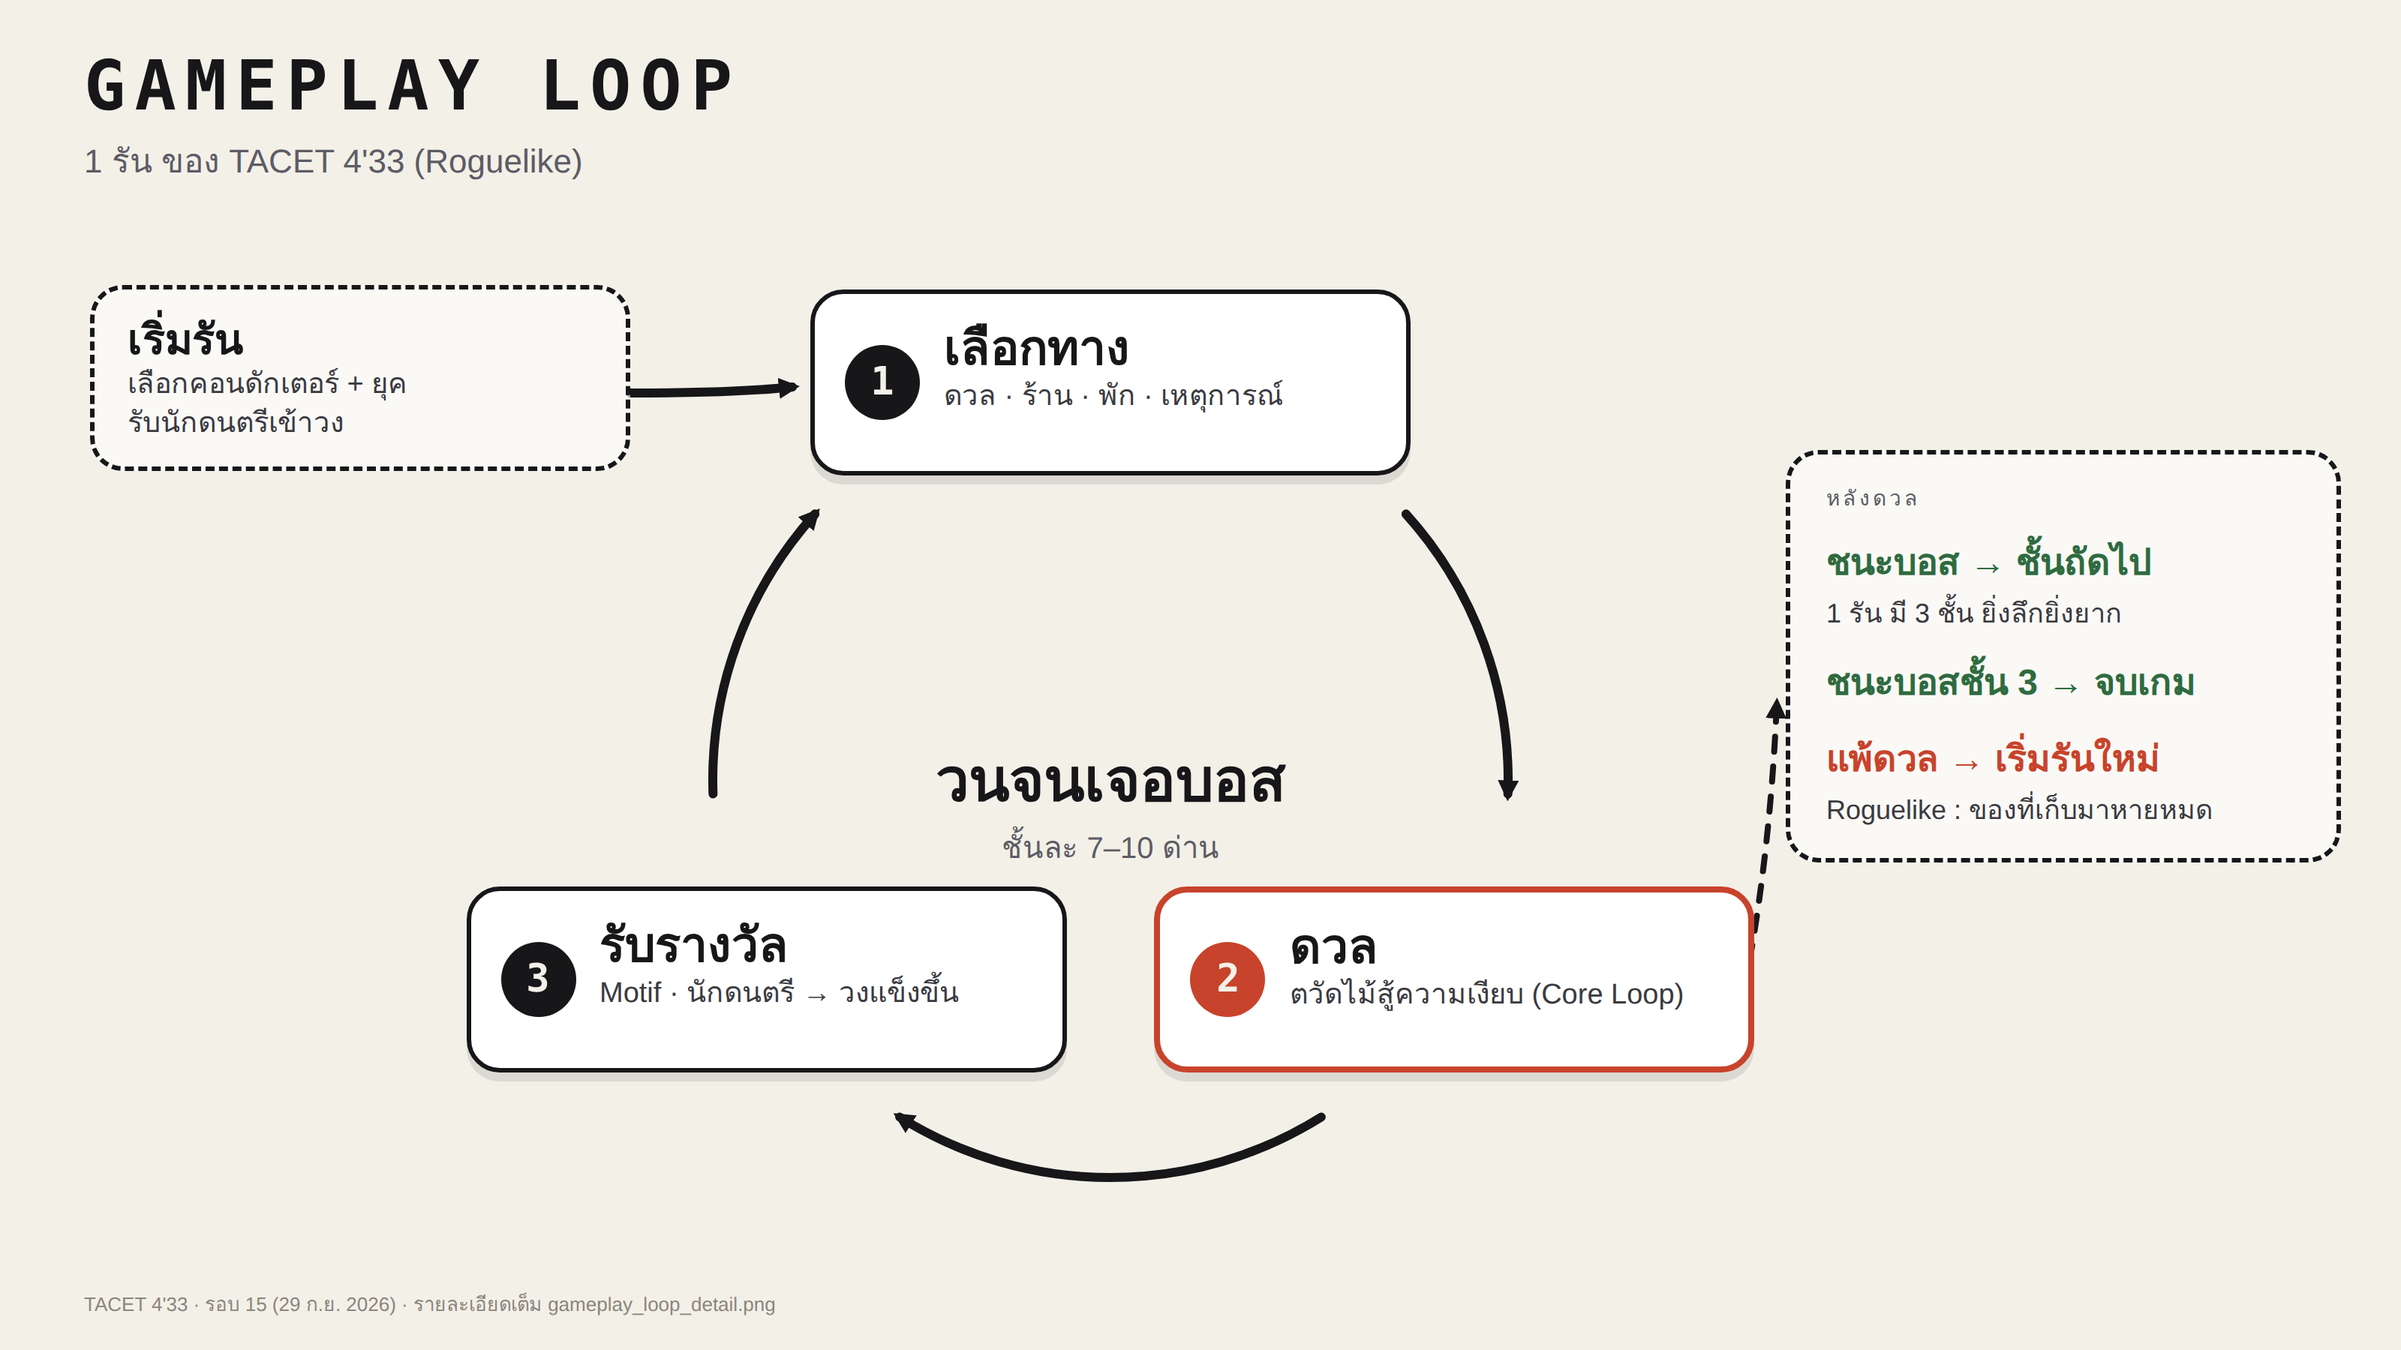
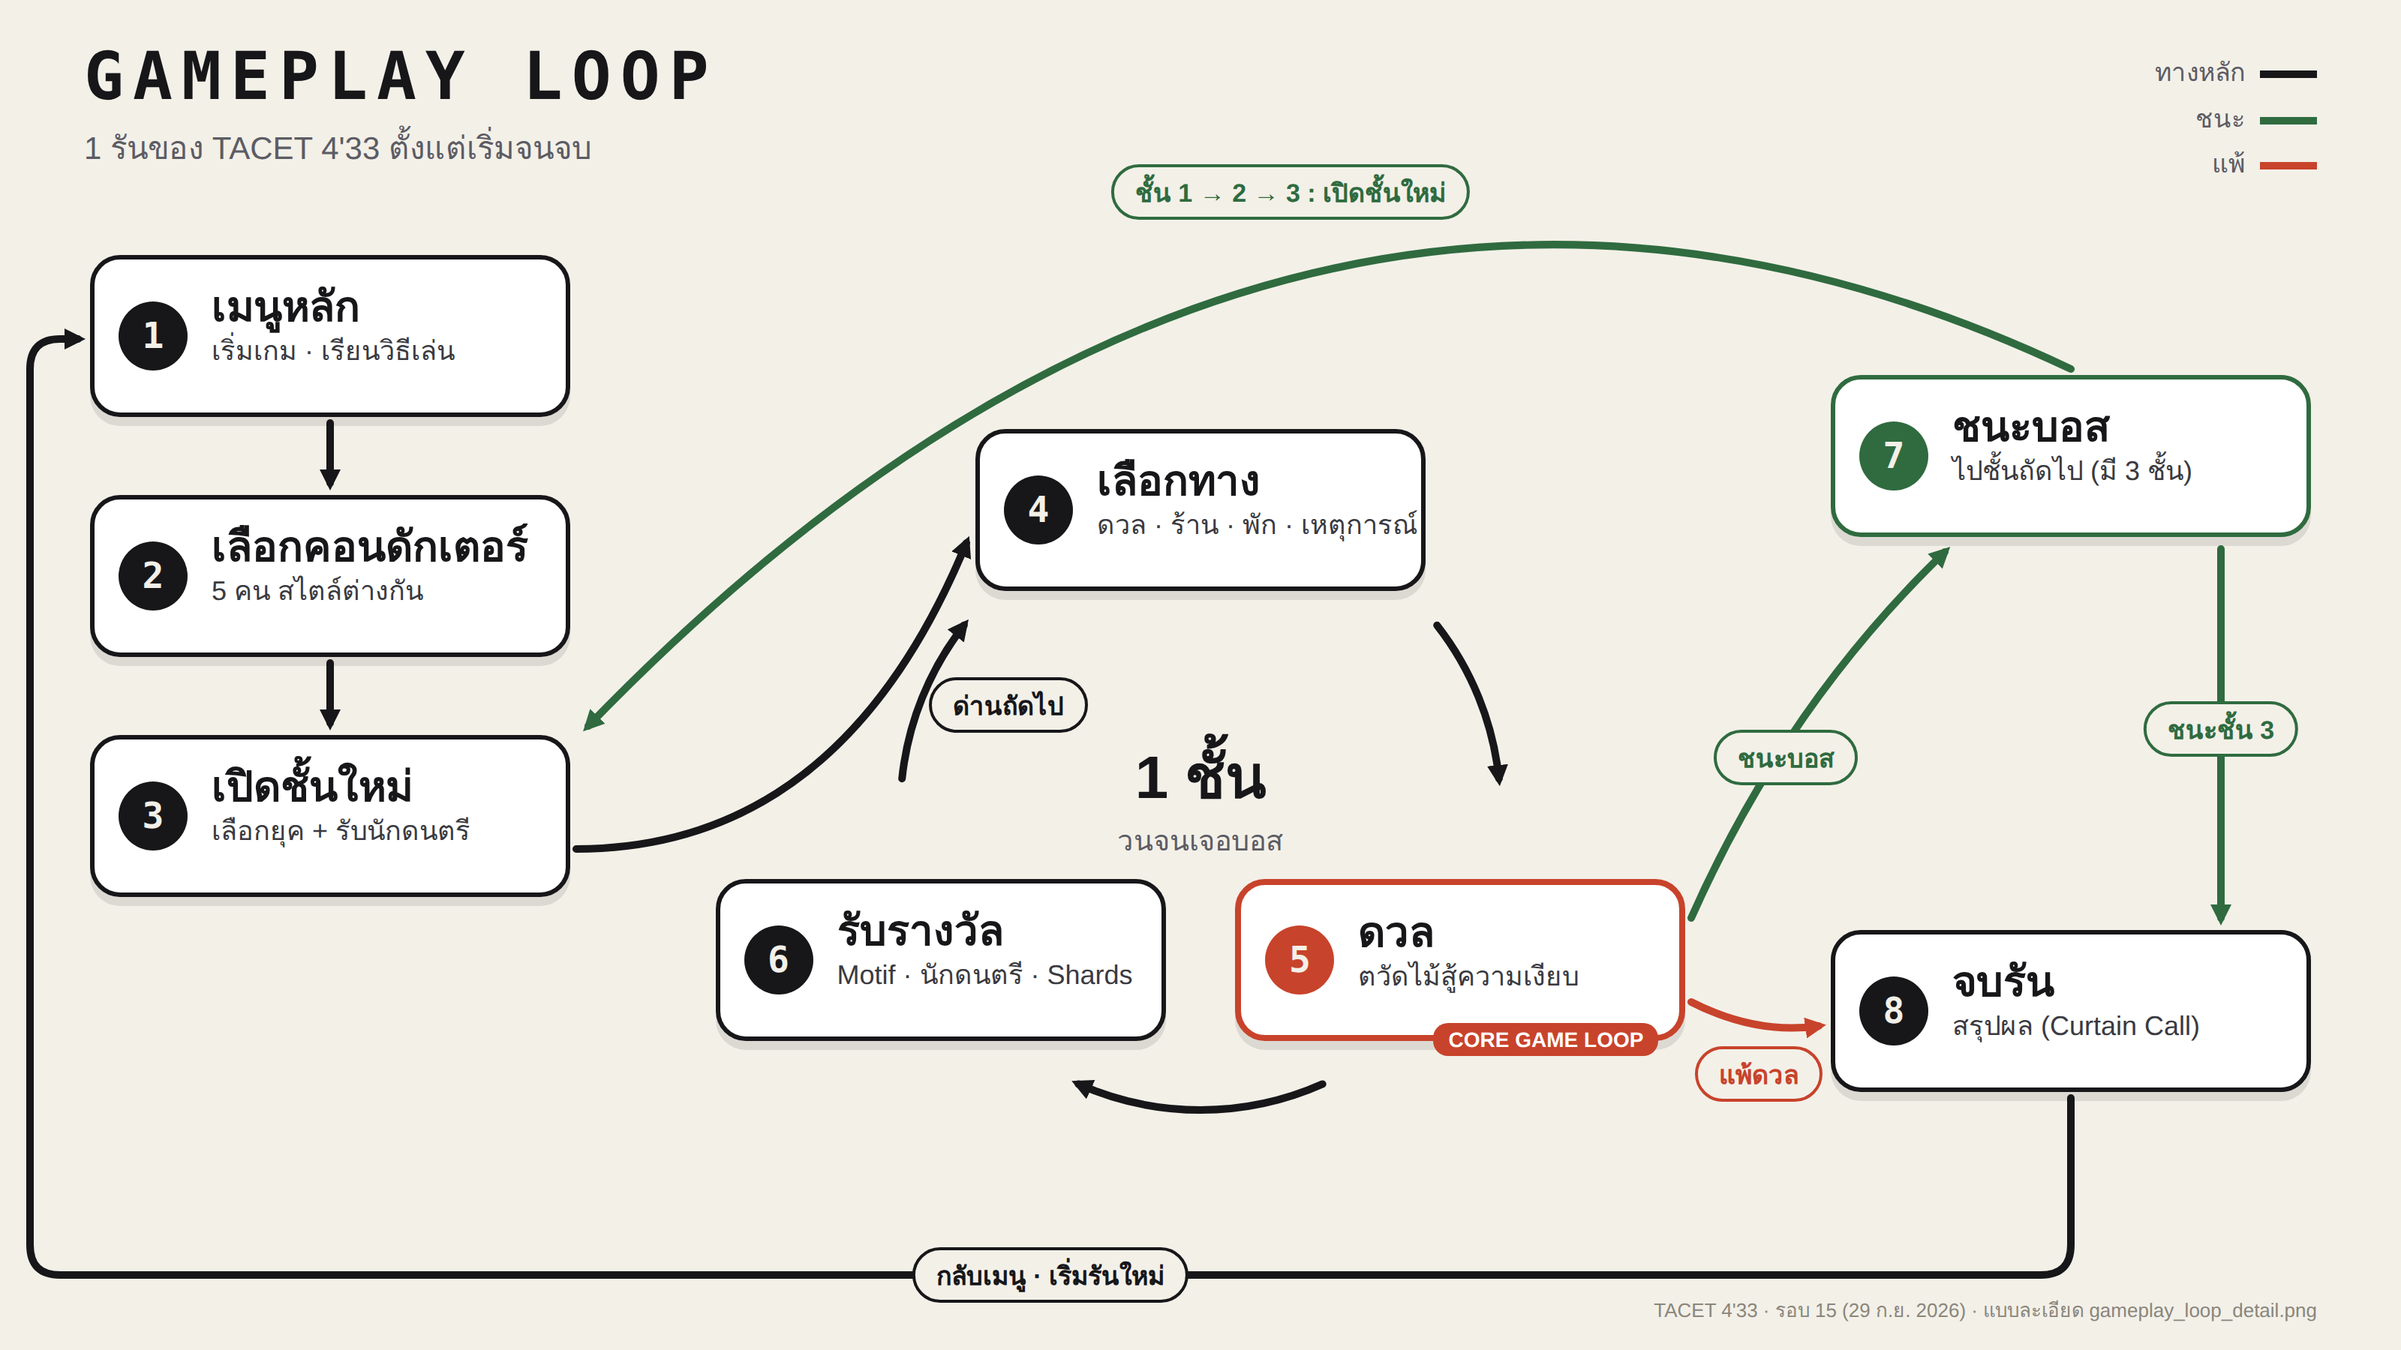
Docs: full-run Gameplay Loop diagram that stays easy to read
Eight numbered steps in three parts (start column, one-floor ring, end
column) with black main arrows, green win arrows and red loss arrows.

Claude-Session: https://claude.ai/code/session_015X4GteHSfACeYSGcLW4gvv

diff --git a/docs/diagrams/gameplay_loop.html b/docs/diagrams/gameplay_loop.html
@@ -1,90 +1,112 @@
 <!DOCTYPE html>
 <html lang="th"><head><meta charset="utf-8"><title>Gameplay Loop</title>
 <link rel="preconnect" href="https://fonts.googleapis.com"><link rel="stylesheet" href="https://fonts.googleapis.com/css2?family=IBM+Plex+Sans+Thai:wght@400;500;700&family=IBM+Plex+Mono:wght@500;600&display=swap">
-<!-- Gameplay Loop, the simple one for slides (round 15, 29 Sep 2026). The detailed one is gameplay_loop_detail.html.
+<!-- Gameplay Loop, the whole run but easy to read, for slides (round 15, 29 Sep 2026). The dense one is gameplay_loop_detail.html.
      Render : NODE_PATH=$(npm root -g) node docs/diagrams/render.js -->
 <style>
   html, body { margin: 0; padding: 0; background: #F3F0E8; }
   body { font-family: 'IBM Plex Sans Thai', sans-serif; color: #17171A; }
   .sheet { position: relative; width: 1600px; height: 900px; overflow: hidden; background: #F3F0E8; }
   .sheet svg { position: absolute; left: 0; top: 0; }
-  .hd { position: absolute; left: 56px; top: 34px; }
-  .hd h1 { margin: 0; font-family: 'IBM Plex Mono', monospace; font-weight: 600; font-size: 46px; letter-spacing: 6px; line-height: 1; }
-  .hd p { margin: 10px 0 0; font-size: 22px; color: #5C5C64; font-weight: 500; }
-  .node { position: absolute; box-sizing: border-box; width: 400px; height: 124px; transform: translate(-50%, -50%);
-          background: #fff; border: 3px solid #17171A; border-radius: 22px; box-shadow: 0 6px 0 rgba(23,23,26,0.10);
-          padding: 16px 18px 0 86px; }
+  .hd { position: absolute; left: 56px; top: 30px; }
+  .hd h1 { margin: 0; font-family: 'IBM Plex Mono', monospace; font-weight: 600; font-size: 44px; letter-spacing: 6px; line-height: 1; }
+  .hd p { margin: 8px 0 0; font-size: 21px; color: #5C5C64; font-weight: 500; }
+  .legend { position: absolute; right: 56px; top: 34px; font-size: 17px; color: #5C5C64; text-align: right; line-height: 1.8; }
+  .legend i { display: inline-block; width: 38px; height: 0; border-top: 5px solid; vertical-align: middle; margin-left: 10px; }
+  .node { position: absolute; box-sizing: border-box; width: 320px; height: 108px;
+          background: #fff; border: 3px solid #17171A; border-radius: 20px; box-shadow: 0 6px 0 rgba(23,23,26,0.10);
+          padding: 14px 16px 0 78px; }
+  .node.ring { width: 300px; transform: translate(-50%, -50%); }
   .node.accent { border-color: #C8432B; border-width: 4px; }
-  .num { position: absolute; left: 20px; top: 50%; transform: translateY(-50%); width: 50px; height: 50px; border-radius: 50%;
-         background: #17171A; color: #F3F0E8; font-family: 'IBM Plex Mono', monospace; font-weight: 600; font-size: 26px; text-align: center; line-height: 50px; }
+  .node.good { border-color: #2F6B3F; }
+  .num { position: absolute; left: 16px; top: 50%; transform: translateY(-50%); width: 46px; height: 46px; border-radius: 50%;
+         background: #17171A; color: #F3F0E8; font-family: 'IBM Plex Mono', monospace; font-weight: 600; font-size: 24px; text-align: center; line-height: 46px; }
   .node.accent .num { background: #C8432B; }
-  .t { font-size: 32px; font-weight: 700; line-height: 1.25; white-space: nowrap; }
-  .s { font-size: 19px; color: #3A3A40; line-height: 1.35; white-space: nowrap; }
+  .node.good .num { background: #2F6B3F; }
+  .t { font-size: 28px; font-weight: 700; line-height: 1.25; white-space: nowrap; }
+  .s { font-size: 18px; color: #3A3A40; line-height: 1.35; white-space: nowrap; }
+  .tag { position: absolute; right: 14px; bottom: -14px; background: #C8432B; color: #fff; font-size: 14px; font-weight: 700; padding: 3px 10px; border-radius: 10px; }
+  .pill { position: absolute; transform: translate(-50%, -50%); background: #F3F0E8; border: 2.5px solid; border-radius: 999px;
+          padding: 3px 14px; font-size: 17px; font-weight: 700; white-space: nowrap; }
+  .k { color: #17171A; border-color: #17171A; } .g { color: #2F6B3F; border-color: #2F6B3F; } .r { color: #C8432B; border-color: #C8432B; }
   .mid { position: absolute; transform: translate(-50%, -50%); text-align: center; }
-  .mid .big { font-size: 46px; font-weight: 700; line-height: 1.1; }
-  .mid .small { font-size: 20px; color: #5C5C64; margin-top: 6px; }
-  .out { position: absolute; box-sizing: border-box; border: 3px dashed #17171A; border-radius: 22px; padding: 18px 24px; background: rgba(255,255,255,0.6); }
-  .out .k { font-family: 'IBM Plex Mono', monospace; font-size: 14px; letter-spacing: 2px; color: #5C5C64; }
-  .out .row { font-size: 24px; font-weight: 700; margin-top: 12px; white-space: nowrap; }
-  .out .row span { font-weight: 500; font-size: 18px; color: #3A3A40; display: block; }
-  .win { color: #2F6B3F; } .lose { color: #C8432B; }
-  .entry { position: absolute; box-sizing: border-box; border: 3px dashed #17171A; border-radius: 22px; padding: 16px 22px; background: rgba(255,255,255,0.6); }
-  .entry .t { font-size: 28px; }
-  .foot { position: absolute; left: 56px; bottom: 20px; font-size: 13px; color: #8A867C; }
+  .mid .big { font-size: 40px; font-weight: 700; line-height: 1.1; }
+  .mid .small { font-size: 19px; color: #5C5C64; margin-top: 4px; }
+  .foot { position: absolute; right: 56px; bottom: 16px; font-size: 13px; color: #8A867C; }
 </style></head>
 <body><div class="sheet">
 <svg id="arrows" width="1600" height="900" viewBox="0 0 1600 900">
-  <defs><marker id="head" markerWidth="14" markerHeight="14" refX="9" refY="7" orient="auto" markerUnits="userSpaceOnUse"><path d="M0,0 L14,7 L0,14 z" fill="#17171A"/></marker></defs>
+  <defs>
+    <marker id="hK" markerWidth="14" markerHeight="14" refX="9" refY="7" orient="auto" markerUnits="userSpaceOnUse"><path d="M0,0 L14,7 L0,14 z" fill="#17171A"/></marker>
+    <marker id="hG" markerWidth="14" markerHeight="14" refX="9" refY="7" orient="auto" markerUnits="userSpaceOnUse"><path d="M0,0 L14,7 L0,14 z" fill="#2F6B3F"/></marker>
+    <marker id="hR" markerWidth="14" markerHeight="14" refX="9" refY="7" orient="auto" markerUnits="userSpaceOnUse"><path d="M0,0 L14,7 L0,14 z" fill="#C8432B"/></marker>
+  </defs>
 </svg>
 
-<div class="hd"><h1>GAMEPLAY LOOP</h1><p>1 รัน ของ TACET 4'33 (Roguelike)</p></div>
+<div class="hd"><h1>GAMEPLAY LOOP</h1><p>1 รันของ TACET 4'33 ตั้งแต่เริ่มจนจบ</p></div>
+<div class="legend">ทางหลัก<i style="border-color:#17171A"></i><br>ชนะ<i style="border-color:#2F6B3F"></i><br>แพ้<i style="border-color:#C8432B"></i></div>
 
-<div class="entry" style="left:60px;top:190px;width:360px">
-  <div class="t">เริ่มรัน</div><div class="s">เลือกคอนดักเตอร์ + ยุค</div><div class="s">รับนักดนตรีเข้าวง</div>
-</div>
+<!-- Start : the left column, top to bottom -->
+<div class="node" style="left:60px;top:170px"><div class="num">1</div><div class="t">เมนูหลัก</div><div class="s">เริ่มเกม · เรียนวิธีเล่น</div></div>
+<div class="node" style="left:60px;top:330px"><div class="num">2</div><div class="t">เลือกคอนดักเตอร์</div><div class="s">5 คน สไตล์ต่างกัน</div></div>
+<div class="node" style="left:60px;top:490px"><div class="num">3</div><div class="t">เปิดชั้นใหม่</div><div class="s">เลือกยุค + รับนักดนตรี</div></div>
 
-<div class="node" id="n1"><div class="num">1</div><div class="t">เลือกทาง</div><div class="s">ดวล · ร้าน · พัก · เหตุการณ์</div></div>
-<div class="node accent" id="n2"><div class="num">2</div><div class="t">ดวล</div><div class="s">ตวัดไม้สู้ความเงียบ (Core Loop)</div></div>
-<div class="node" id="n3"><div class="num">3</div><div class="t">รับรางวัล</div><div class="s">Motif · นักดนตรี → วงแข็งขึ้น</div></div>
+<!-- One floor : the ring in the middle -->
+<div class="node ring" id="n4"><div class="num">4</div><div class="t">เลือกทาง</div><div class="s">ดวล · ร้าน · พัก · เหตุการณ์</div></div>
+<div class="node ring accent" id="n5"><div class="num">5</div><div class="t">ดวล</div><div class="s">ตวัดไม้สู้ความเงียบ</div><div class="tag">CORE GAME LOOP</div></div>
+<div class="node ring" id="n6"><div class="num">6</div><div class="t">รับรางวัล</div><div class="s">Motif · นักดนตรี · Shards</div></div>
+<div class="mid" id="mid"><div class="big">1 ชั้น</div><div class="small">วนจนเจอบอส</div></div>
 
-<div class="mid" id="mid"><div class="big" style="font-size:40px">วนจนเจอบอส</div><div class="small">ชั้นละ 7–10 ด่าน</div></div>
+<!-- End : the right column -->
+<div class="node good" style="left:1220px;top:250px"><div class="num">7</div><div class="t">ชนะบอส</div><div class="s">ไปชั้นถัดไป (มี 3 ชั้น)</div></div>
+<div class="node" style="left:1220px;top:620px"><div class="num">8</div><div class="t">จบรัน</div><div class="s">สรุปผล (Curtain Call)</div></div>
 
-<div class="out" style="left:1190px;top:300px;width:370px">
-  <div class="k">หลังดวล</div>
-  <div class="row win">ชนะบอส → ชั้นถัดไป<span>1 รัน มี 3 ชั้น ยิ่งลึกยิ่งยาก</span></div>
-  <div class="row win">ชนะบอสชั้น 3 → จบเกม</div>
-  <div class="row lose">แพ้ดวล → เริ่มรันใหม่<span>Roguelike : ของที่เก็บมาหายหมด</span></div>
-</div>
+<div class="pill k" style="left:672px;top:470px">ด่านถัดไป</div>
+<div class="pill g" style="left:1190px;top:505px">ชนะบอส</div>
+<div class="pill r" style="left:1172px;top:716px">แพ้ดวล</div>
+<div class="pill g" style="left:860px;top:128px">ชั้น 1 → 2 → 3 : เปิดชั้นใหม่</div>
+<div class="pill g" style="left:1480px;top:486px">ชนะชั้น 3</div>
+<div class="pill k" style="left:700px;top:850px">กลับเมนู · เริ่มรันใหม่</div>
 
-<div class="foot">TACET 4'33 · รอบ 15 (29 ก.ย. 2026) · รายละเอียดเต็ม gameplay_loop_detail.png</div>
+<div class="foot">TACET 4'33 · รอบ 15 (29 ก.ย. 2026) · แบบละเอียด gameplay_loop_detail.png</div>
 </div>
 <script>
-  //Ring : three stops on a circle, the arrows run along it between them
-  const C = { x: 740, y: 520 }, R = 265;
-  const angles = [-90, 30, 150];                          // top, bottom right, bottom left : clockwise
+  const svg = document.getElementById('arrows');
+  function path(d, colour) {
+    const p = document.createElementNS('http://www.w3.org/2000/svg', 'path');
+    const stroke = { K: '#17171A', G: '#2F6B3F', R: '#C8432B' }[colour];
+    p.setAttribute('d', d); p.setAttribute('fill', 'none'); p.setAttribute('stroke', stroke);
+    p.setAttribute('stroke-width', '5'); p.setAttribute('stroke-linecap', 'round'); p.setAttribute('stroke-linejoin', 'round');
+    p.setAttribute('marker-end', 'url(#h' + colour + ')'); svg.appendChild(p);
+  }
+
+  //Ring : one floor, choose a path -> the stage -> the reward -> back to choosing
+  const C = { x: 800, y: 540 }, R = 200;
+  const angles = [-90, 30, 150];
   angles.forEach((a, i) => {
-    const r = a * Math.PI / 180, el = document.getElementById('n' + (i + 1));
+    const r = a * Math.PI / 180, el = document.getElementById('n' + (i + 4));
     el.style.left = (C.x + R * Math.cos(r)) + 'px';
     el.style.top = (C.y + R * Math.sin(r)) + 'px';
   });
-  const mid = document.getElementById('mid'); mid.style.left = C.x + 'px'; mid.style.top = (C.y + 20) + 'px';
-
-  const svg = document.getElementById('arrows');
-  function path(d, dashed) {
-    const p = document.createElementNS('http://www.w3.org/2000/svg', 'path');
-    p.setAttribute('d', d); p.setAttribute('fill', 'none'); p.setAttribute('stroke', '#17171A');
-    p.setAttribute('stroke-width', dashed ? '4' : '6'); p.setAttribute('stroke-linecap', 'round');
-    if (dashed) p.setAttribute('stroke-dasharray', '10 10');
-    p.setAttribute('marker-end', 'url(#head)'); svg.appendChild(p);
-  }
-  //Arcs : from just past one stop to just before the next
-  const gaps = [[48, 28], [28, 28], [28, 48]];
+  const mid = document.getElementById('mid'); mid.style.left = C.x + 'px'; mid.style.top = (C.y - 4) + 'px';
+  const gaps = [[52, 36], [36, 36], [36, 52]];
   angles.forEach((a, i) => {
-    const b = a + 120, s = (a + gaps[i][0]) * Math.PI / 180, e = (b - gaps[i][1]) * Math.PI / 180;
-    path(`M ${C.x + R * Math.cos(s)} ${C.y + R * Math.sin(s)} A ${R} ${R} 0 0 1 ${C.x + R * Math.cos(e)} ${C.y + R * Math.sin(e)}`, false);
+    const s = (a + gaps[i][0]) * Math.PI / 180, e = (a + 120 - gaps[i][1]) * Math.PI / 180;
+    path(`M ${C.x + R * Math.cos(s)} ${C.y + R * Math.sin(s)} A ${R} ${R} 0 0 1 ${C.x + R * Math.cos(e)} ${C.y + R * Math.sin(e)}`, 'K');
   });
-  //Entry and exit
-  path('M 420 262 Q 490 262 528 258', false);             // start of the run -> choose a path
-  path('M 1166 640 Q 1180 560 1184 470', true);            // the duel -> what happens after it
+
+  //Start column, and into the floor
+  path('M 220 282 L 220 322', 'K');                                    // 1 -> 2
+  path('M 220 442 L 220 482', 'K');                                    // 2 -> 3
+  path('M 384 566 Q 560 566 644 362', 'K');                            // 3 -> 4, under the green return so they never cross
+
+  //Out of the duel
+  path('M 1127 612 Q 1190 470 1296 368', 'G');                         // 5 -> 7 : the boss is beaten
+  path('M 1127 668 Q 1170 690 1212 684', 'R');                         // 5 -> 8 : the duel is lost
+  path('M 1380 246 Q 860 0 392 484', 'G');                             // 7 -> 3 : the next floor
+  path('M 1480 366 L 1480 612', 'G');                                  // 7 -> 8 : the third floor is done
+
+  //Back to the menu, round the bottom and up the left side
+  path('M 1380 732 L 1380 830 Q 1380 850 1360 850 L 40 850 Q 20 850 20 830 L 20 246 Q 20 226 40 226 L 52 226', 'K');
 </script>
 </body></html>
